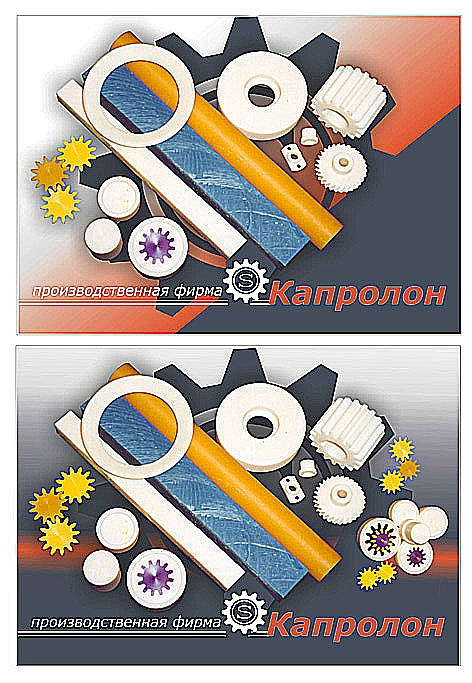
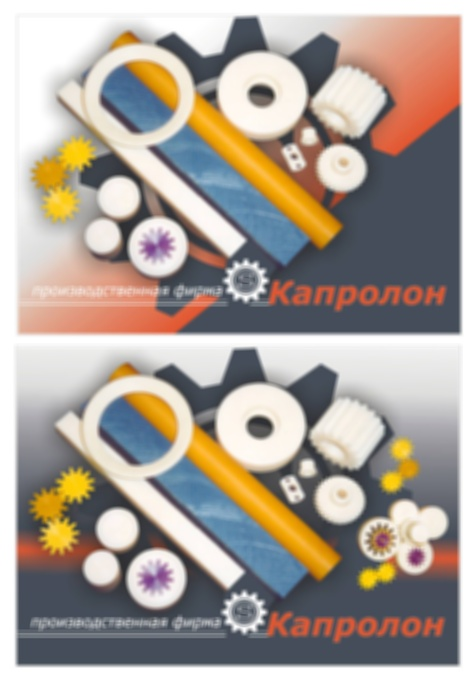
new_filters

Changed region(s): [[0.0297, 0.0, 0.9788, 0.9839], [0.8602, 0.1845, 0.9195, 0.2152], [0.6525, 0.0307, 0.7119, 0.0615]]

diff --git a/main.py b/main.py
@@ -4,14 +4,13 @@ import cv2
 import numpy as np
 
 #резкость
-def apply_sharpening_filter(input_path, output_path):
+def blure_filter(input_path, output_path):
     image = cv2.imread(input_path)
-    kernel = np.array([[-1,-1,-1],[-1,9,-1],[-1,-1,-1]])
-    sharpened = cv2.filter2D(image, -1, kernel)
-    cv2.imwrite(output_path, sharpened)
+    blurred = cv2.blur(image, (5, 5))
+    cv2.imwrite(output_path, blurred)
 
 #степень
-def apply_sepia_filter(input_path, output_path):
+def sepia_filter(input_path, output_path):
     image = cv2.imread(input_path)
     kernel = np.array([[0.272, 0.534, 0.131],
                        [0.349, 0.686, 0.168],
@@ -20,10 +19,10 @@ def apply_sepia_filter(input_path, output_path):
     cv2.imwrite(output_path, sepia_toned)
 
 #уменьшение размера
-def resize_image(input_path, output_path, width, height):
+def bandw_image(input_path, output_path, width, height):
     image = cv2.imread(input_path)
-    resized = cv2.resize(image, (width, height))
-    cv2.imwrite(output_path, resized)
+    gray = cv2.cvtColor(image, cv2.COLOR_BGR2GRAY)
+    cv2.imwrite(output_path, gray)
 
 
 def process_images(input_folder, output_folder):
@@ -32,21 +31,21 @@ def process_images(input_folder, output_folder):
             input_path = os.path.join(input_folder, filename)
 
 
-            sharpened_output_path = os.path.join(output_folder, f'sharpened_{filename}')
+            blure_output_path = os.path.join(output_folder, f'sharpened_{filename}')
             sepia_output_path = os.path.join(output_folder, f'sepia_{filename}')
-            resized_output_path = os.path.join(output_folder, f'resized_{filename}')
+            bandw_output_path = os.path.join(output_folder, f'resized_{filename}')
 
-            sharpening_thread = threading.Thread(target=apply_sharpening_filter, args=(input_path, sharpened_output_path))
-            sepia_thread = threading.Thread(target=apply_sepia_filter, args=(input_path, sepia_output_path))
-            resize_thread = threading.Thread(target=resize_image, args=(input_path, resized_output_path, 800, 600))
+            blure_thread = threading.Thread(target=blure_filter, args=(input_path, blure_output_path))
+            sepia_thread = threading.Thread(target=sepia_filter, args=(input_path, sepia_output_path))
+            bandw_thread = threading.Thread(target=bandw_image, args=(input_path, bandw_output_path, 800, 600))
 
-            sharpening_thread.start()
+            blure_thread.start()
             sepia_thread.start()
-            resize_thread.start()
+            bandw_thread.start()
 
-            sharpening_thread.join()
+            blure_thread.join()
             sepia_thread.join()
-            resize_thread.join()
+            bandw_thread.join()
 
 
 input_folder = 'C:/Users/snw12/PycharmProjects/FP-1/foto'
